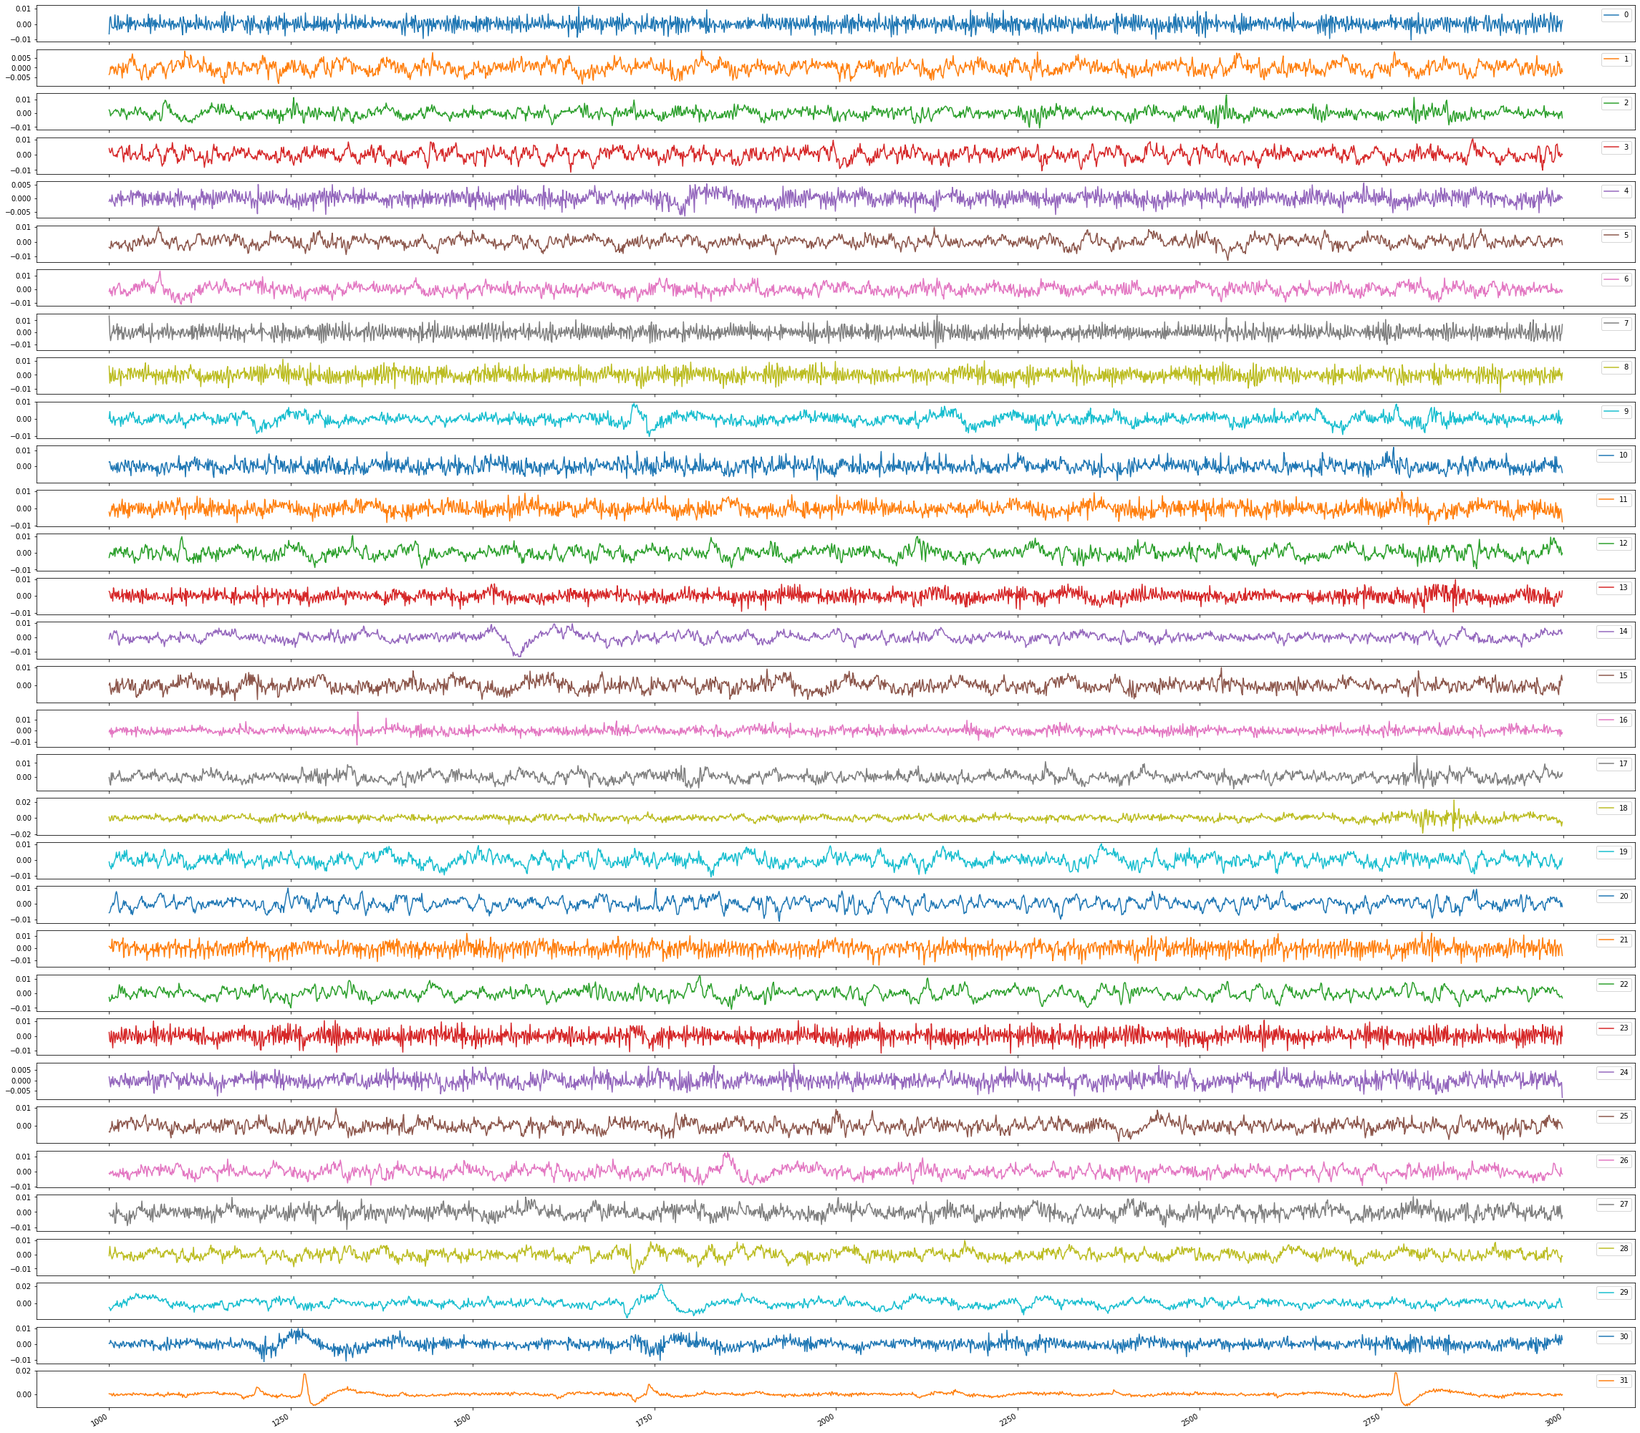
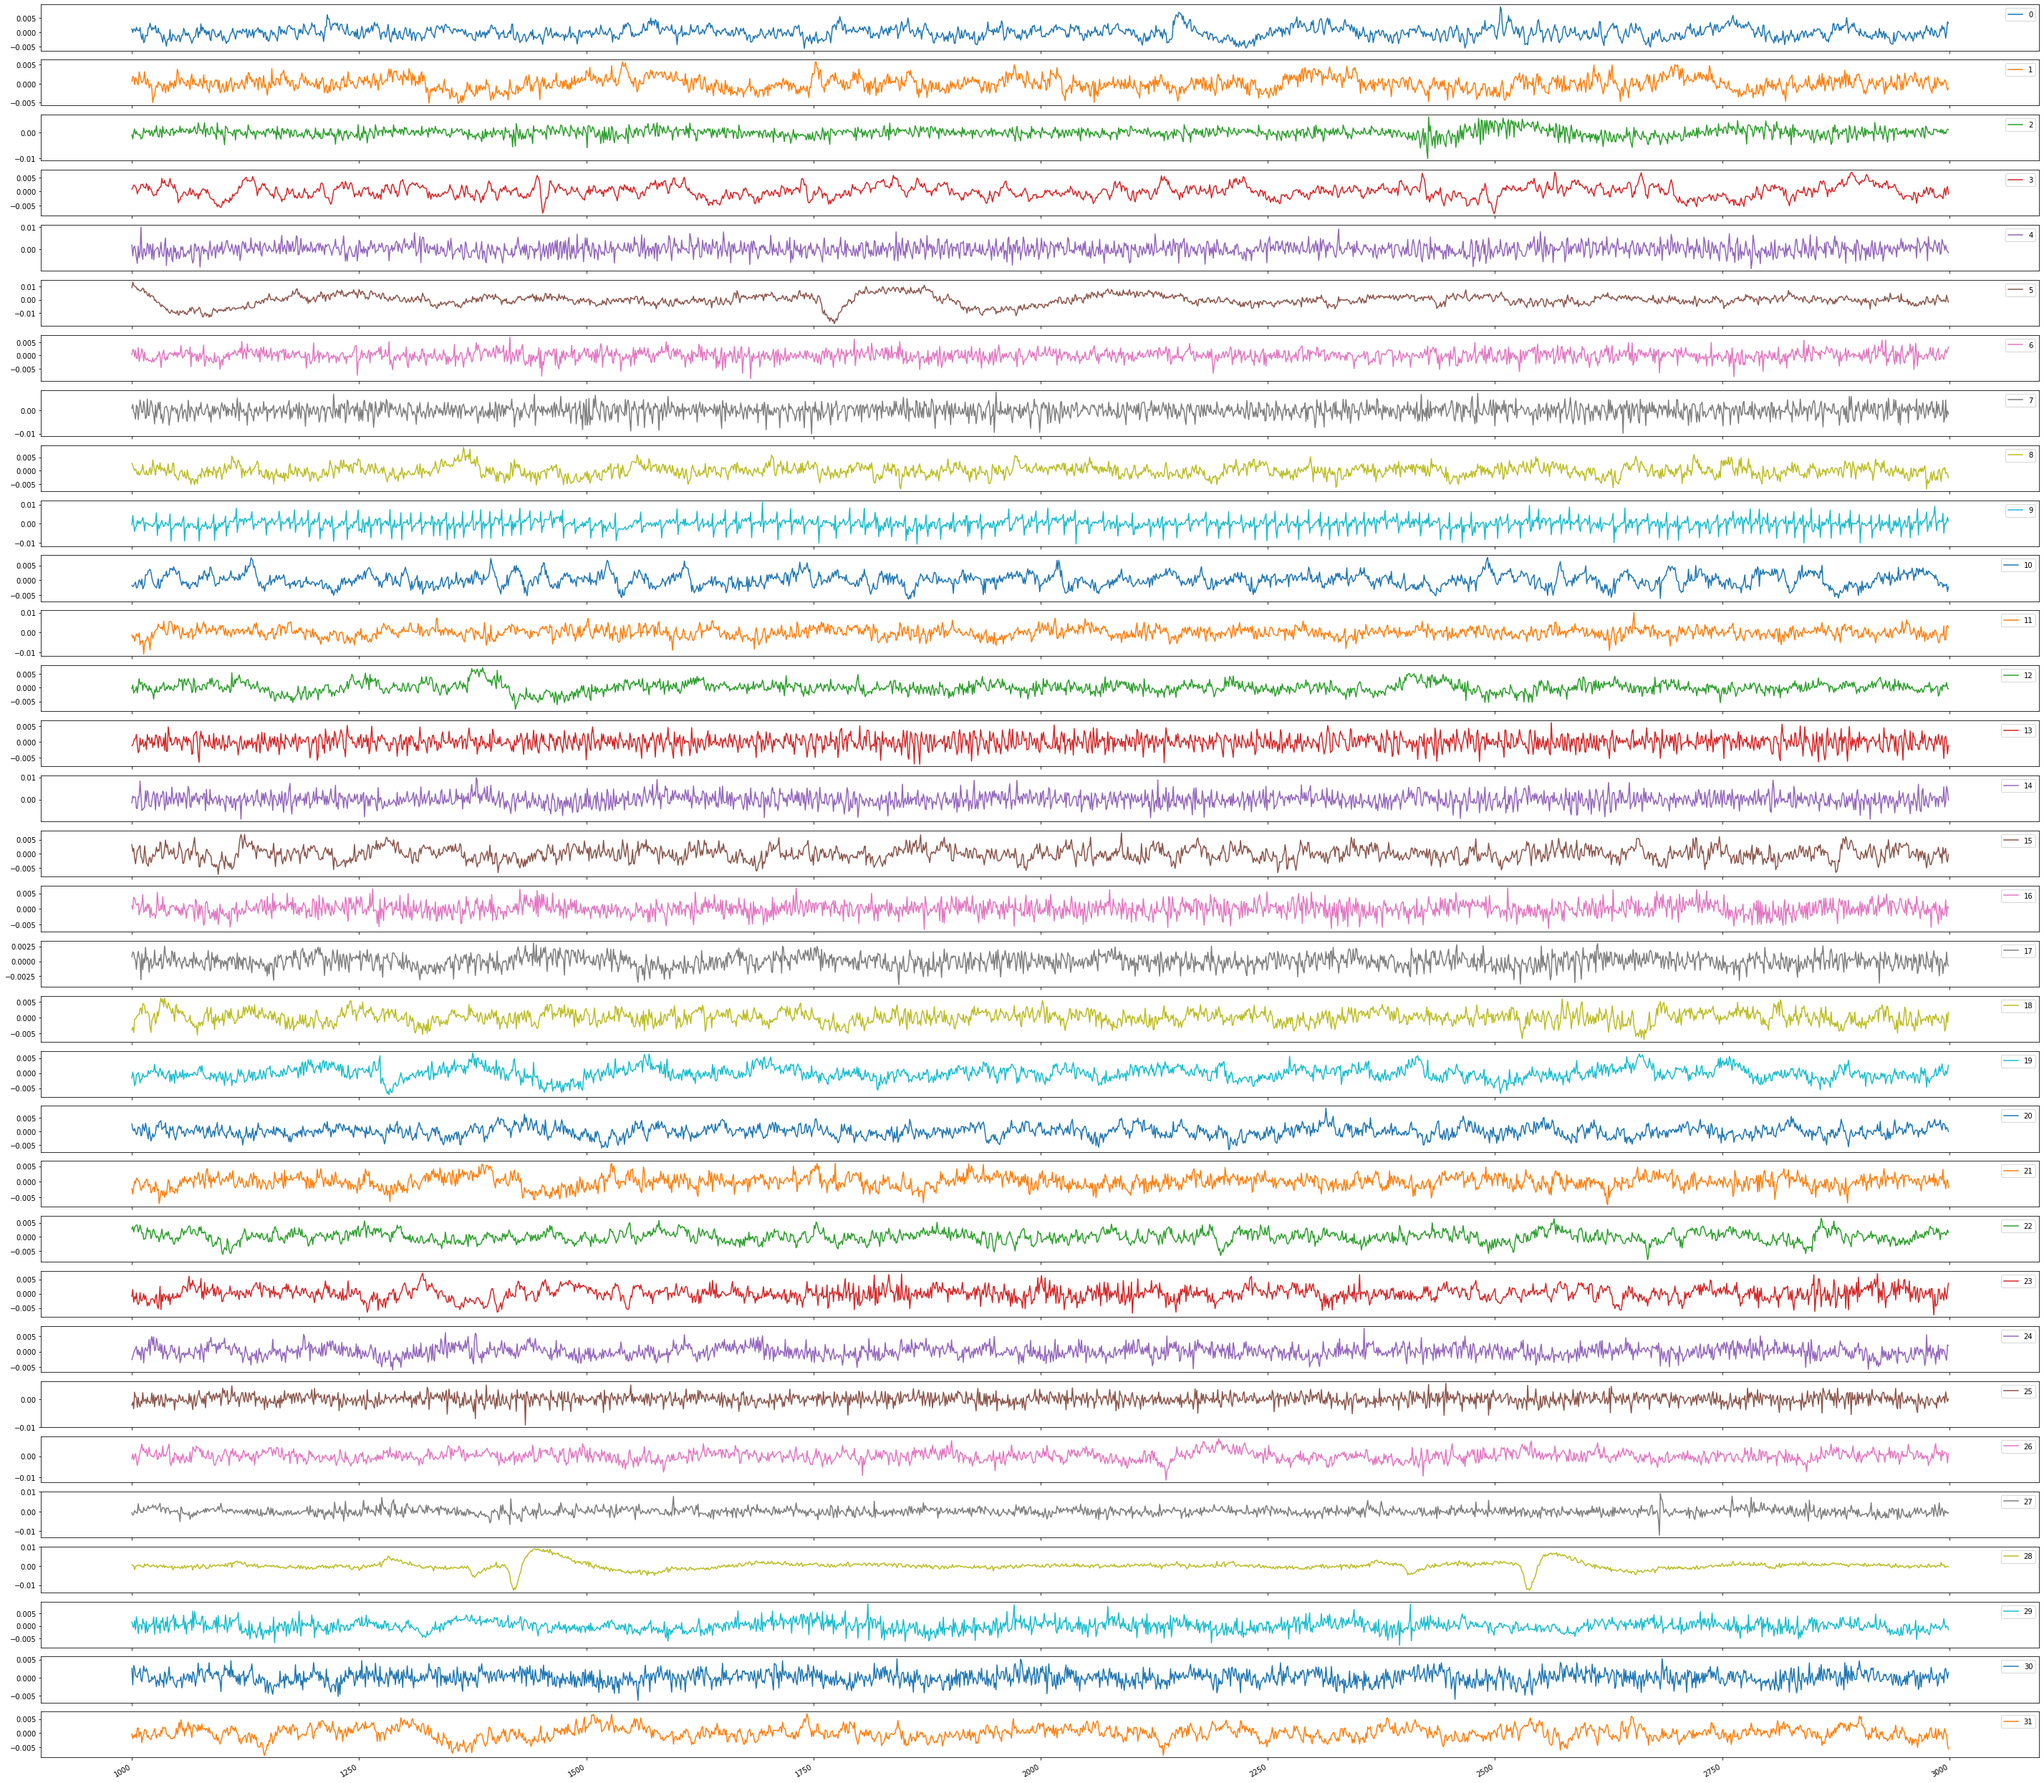
updated ICA plot

Changed region(s): [[0.062, 0.0, 1.0, 0.9915], [0.0, 0.0, 0.031, 0.9915]]

diff --git a/README.md b/README.md
@@ -91,7 +91,7 @@ ICA is implemented with the `FastICA` algorithm from Scikit-learn. For each subj
 
 ![subj1_ica](images/subj1_ica.png)
 
-Eyeblink artifacts can be seen in channel 31. To reject this artifact, the 31st independent source is zeroed prior to taking the inverse transformation. The removal of eyeblinks using ICA can be seen in channel 1 of subject 1s data:
+Eyeblink artifacts can be seen in the source 4th from the bottom. To reject this artifact, the 28th column of independent sources is zeroed prior to taking the inverse transformation. The removal of eyeblinks using ICA can be seen in channel 1 of subject 1s data:
 
 ![subj1_w_eyeblink](images/subj1_eyeblink.png)
 
